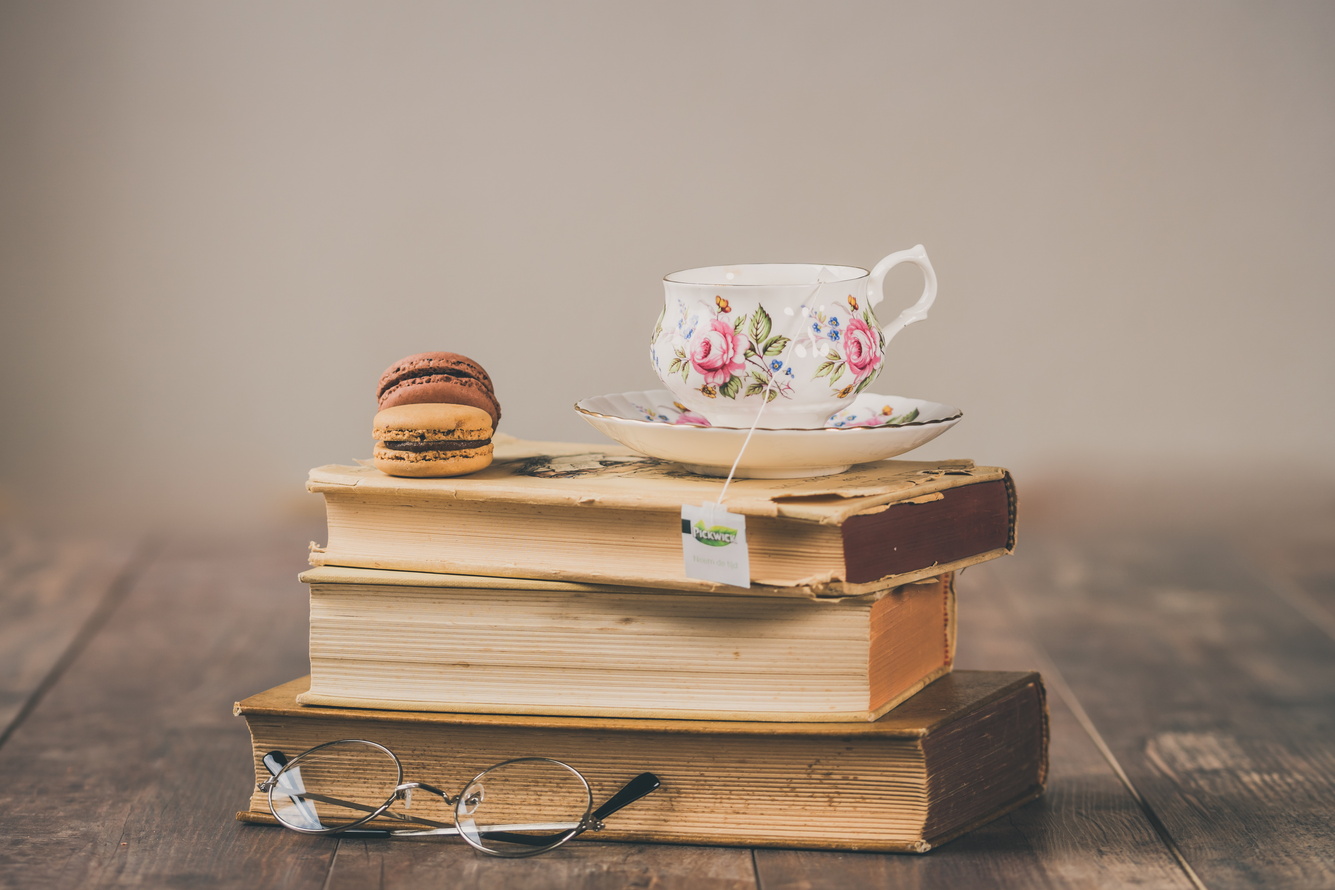
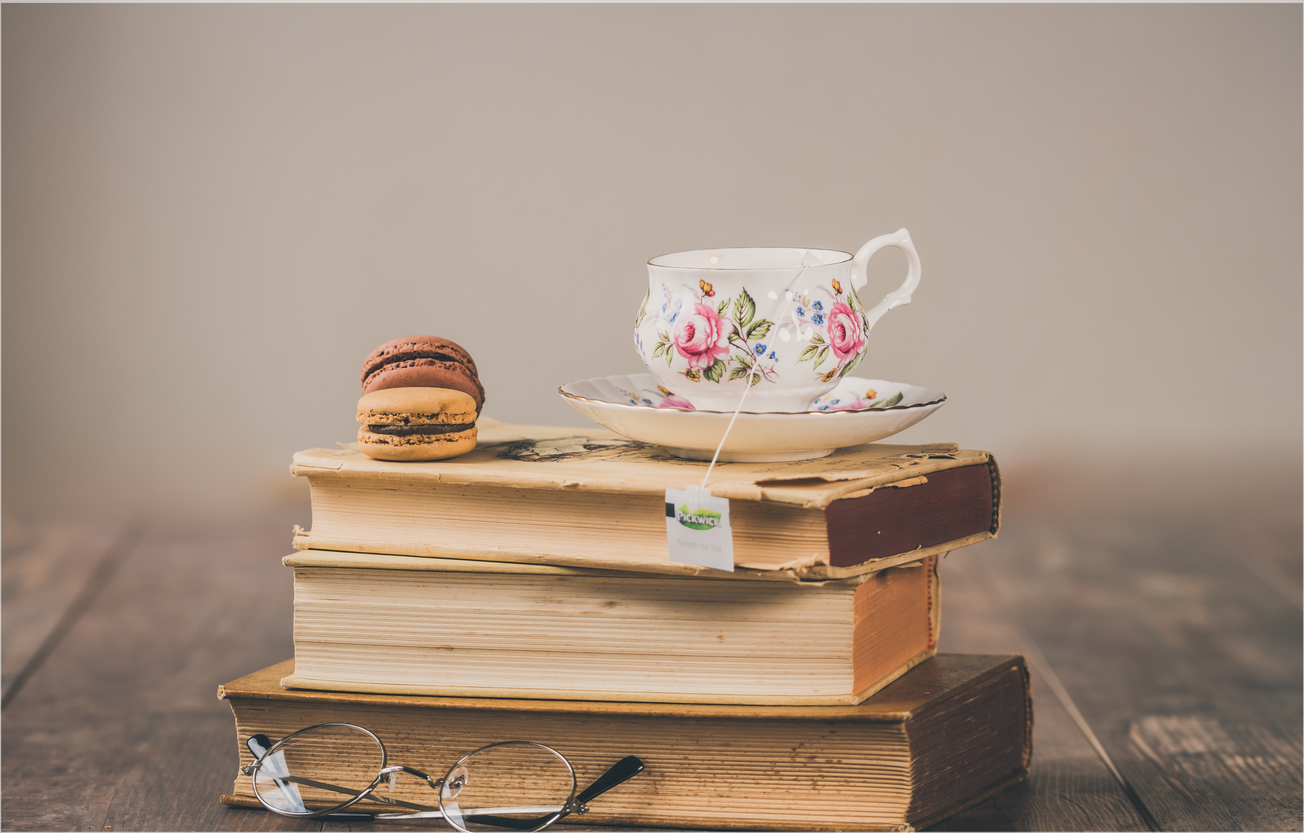
Need to fade background image bottom somehow

diff --git a/src/App.js b/src/App.js
@@ -9,8 +9,8 @@ function App() {
       <header className="App-header">
       </header>
       <Dictionary />
-      <footer>This is a working project coded by <a href="https://www.linkedin.com/in/tiare-elise/" rel="noopener noreferrer" alt="Tiare">Tiare</a>. It is open-sourced via <a href="https://github.com/TiareHo/dictionary-project" rel="noopener noreferrer" alt="Tiare's GitHub">GitHub</a> and hosted on <a href="https://lambent-gecko-9837c1.netlify.app/" rel="noopener noreferrer" alt="Tiare's Netfily">Netlify</a>. Enjoy!</footer>
       </div>
+      <footer>This is a working project coded by <a href="https://www.linkedin.com/in/tiare-elise/" rel="noopener noreferrer" alt="Tiare">Tiare</a>. It is open-sourced via <a href="https://github.com/TiareHo/dictionary-project" rel="noopener noreferrer" alt="Tiare's GitHub">GitHub</a> and hosted on <a href="https://lambent-gecko-9837c1.netlify.app/" rel="noopener noreferrer" alt="Tiare's Netfily">Netlify</a>. Enjoy!</footer>
     </div>
   );
 }

diff --git a/src/App.css b/src/App.css
@@ -1,3 +1,4 @@
+
 a {
     color:rgb(248, 103, 128);
 }
@@ -6,14 +7,17 @@ body {
     background-image:url("images/wide-tea-book.jpg");
     background-size: 100%;
     background-repeat: no-repeat;
-    box-shadow: 0 0 20px white inset;
+    background-color: rgba(128, 128, 128, 0.157);
     
 }
 
 footer {
-   position:relative;
-   padding-top: 10px;
-   height: 5px;
+   
+   bottom:0;
+   padding-top: 5px;
+   background-color: rgba(255, 255, 255, 0.618);
+   text-align: center;
+   
    
 }
 @media (max-width: 900px) {
